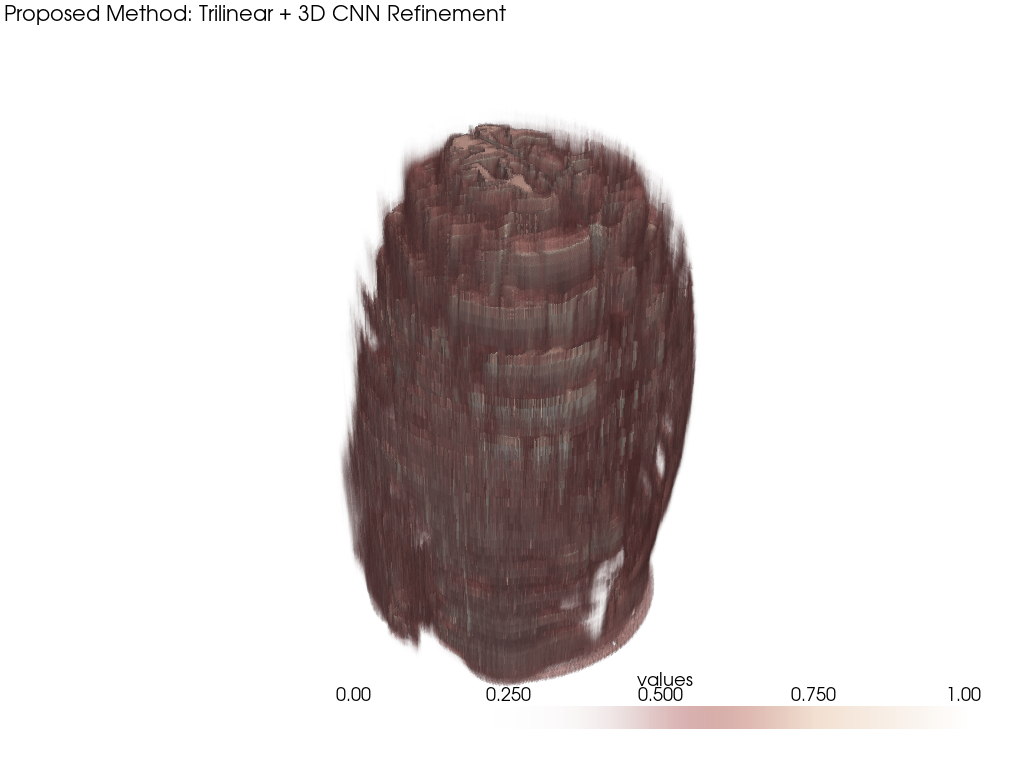
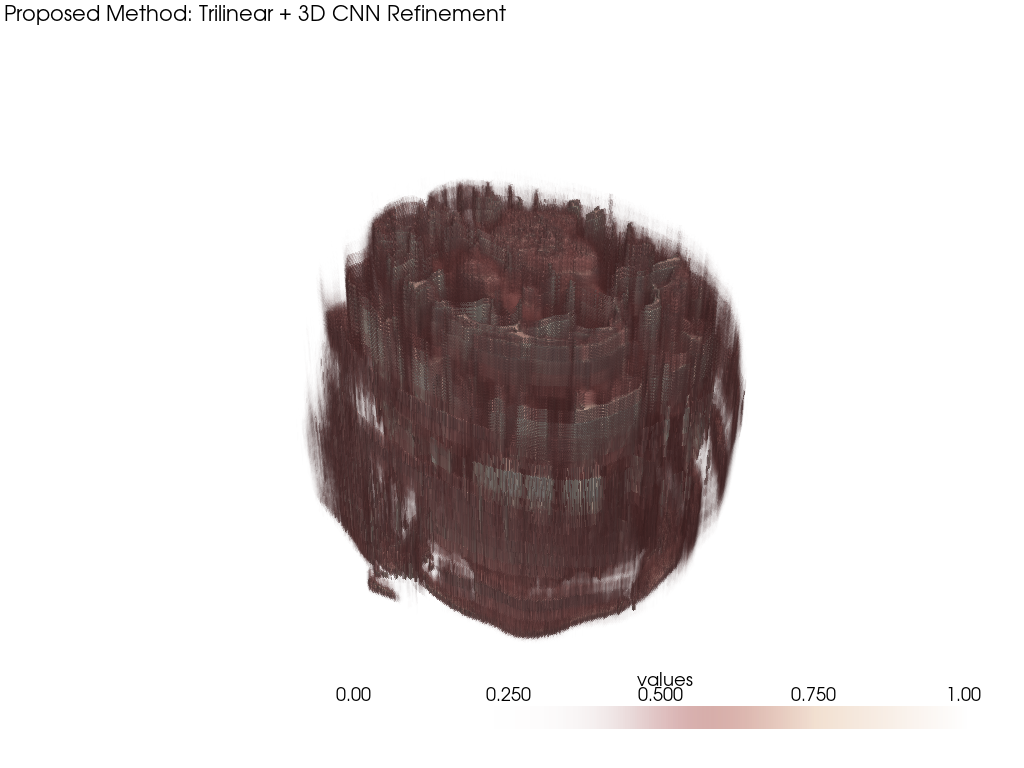
slice mode error corrected

Changed region(s): [[0.2812, 0.1562, 0.75, 0.9062]]

diff --git a/backend/app/services/marching_cubes.py b/backend/app/services/marching_cubes.py
@@ -31,6 +31,12 @@ def extract_3d_mesh(volume, iso_level=0.12, spacing=(5.98, 0.898, 0.898), target
     zoom_factors = [spacing[i] / target_spacing[i] for i in range(3)]
     resampled_mask = ndimage.zoom(binary_mask.astype(float), zoom_factors, order=1) > 0.45
 
+    if not np.any(resampled_mask):
+        resampled_mask = (volume > (0.05 * np.max(volume))) if np.max(volume) > 0 else np.ones_like(volume, dtype=bool)
+        if not np.any(resampled_mask):
+            d, h, w = resampled_mask.shape
+            resampled_mask[max(0, d//4):max(1, 3*d//4), max(0, h//4):max(1, 3*h//4), max(0, w//4):max(1, 3*w//4)] = True
+
     # 3. Marching Cubes extraction
     verts, faces, normals, values = marching_cubes(
         resampled_mask,

diff --git a/src/visualizer.py b/src/visualizer.py
@@ -108,7 +108,7 @@ def show_interactive_orthogonal_slicer(volume, spacing=(1.0, 1.0, 1.0), title="I
     plotter.add_text(title, font_size=12)
     
     # Add interactive orthogonal slicing planes
-    plotter.add_orthogonal_slicer(grid, scalars="values", cmap="bone")
+    plotter.add_mesh_slice_orthogonal(grid, scalars="values", cmap="bone")
     
     print(f"\n[Visualizer] Launching Interactive Orthogonal Plane Slicer...")
     print("  - Drag plane outlines to cut through Axial, Coronal, and Sagittal slices.")

diff --git a/src/phantom_generator.py b/src/phantom_generator.py
@@ -21,7 +21,7 @@ def generate_synthetic_brain(shape=(64, 128, 128)):
     zz, yy, xx = np.meshgrid(z_coords, y_coords, x_coords, indexing='ij')
     
     # Cortical sulci folds perturbation
-    folds = (np.sin(xx * 12.0) * np.cos(yy * 12.0) * Math.sin(zz * 10.0) if hasattr(np, 'sin') else 0)
+    folds = (np.sin(xx * 12.0) * np.cos(yy * 12.0) * np.sin(zz * 10.0) if hasattr(np, 'sin') else 0)
     folds = (np.sin(xx * 12.0) * np.cos(yy * 12.0) * np.sin(zz * 10.0)) * 0.08
 
     # 1. Outer Skull Boundary

diff --git a/backend/tests/test_backend.py b/backend/tests/test_backend.py
@@ -39,7 +39,7 @@ def test_segmentation_and_metrics():
 
 def test_marching_cubes_mesh():
     vol, _, _ = generate_synthetic_3d_brain(shape=(16, 32, 32))
-    verts, faces, normals = extract_3d_mesh(vol, iso_level=0.3)
+    verts, faces, normals, _ = extract_3d_mesh(vol, iso_level=0.12)
     assert len(verts) > 0
     assert len(faces) > 0
 
